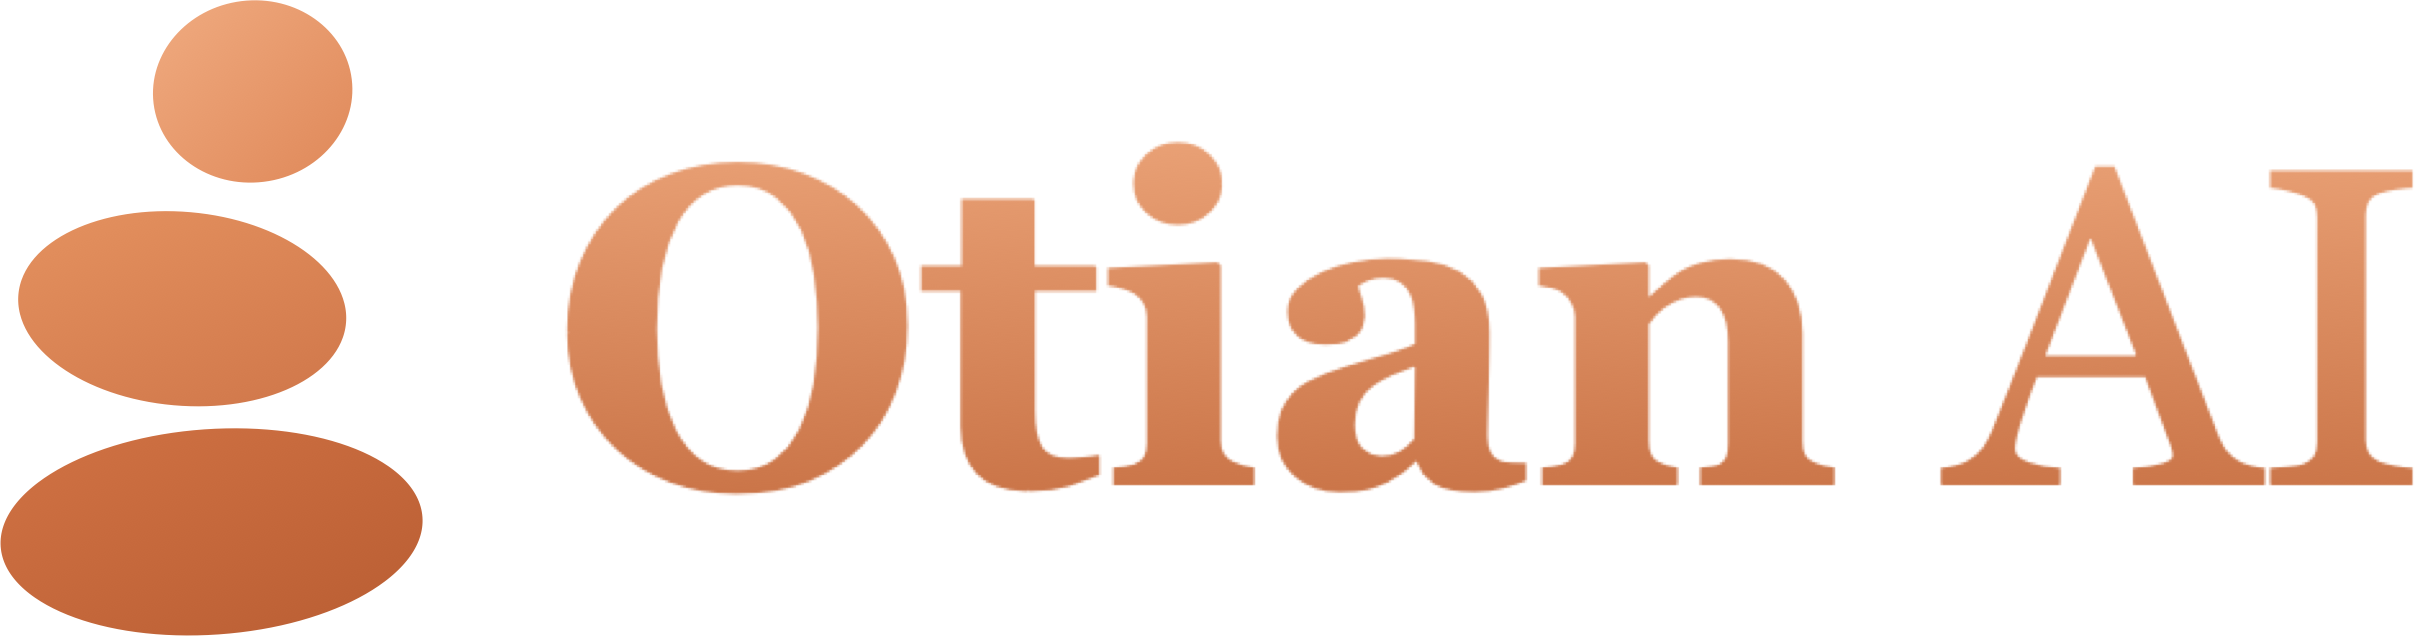
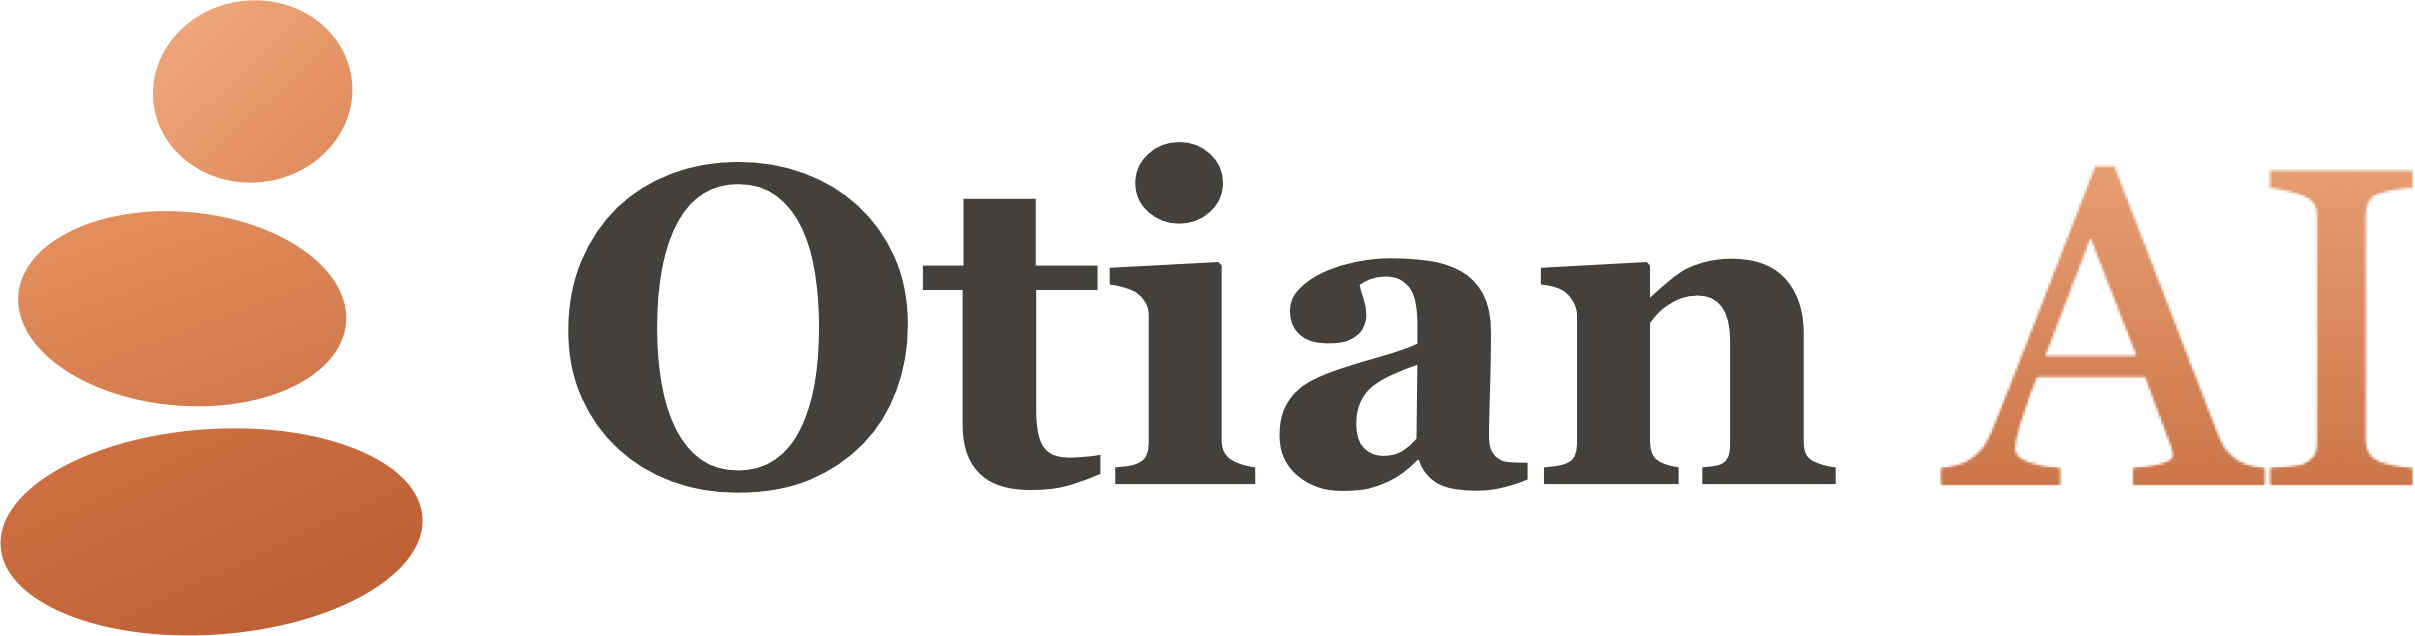
The name goes in ink and only the "AI" keeps the accent
"Otian" is #44403B, the site's own --text-primary, so the wordmark reads the way
body copy does and the terracotta is left to say one thing: the mark, and the two
letters that name what this is.

The "AI" is untouched, and deliberately so. The gradient stays on the <text>
element, where its object bounding box is the whole wordmark, and "Otian"
overrides it on its own tspan. The obvious way round, moving the gradient down
onto an "AI" tspan, reframes it around those two letters alone and slides the
ramp a few percent; a render diff against the previous file put that at a max
channel delta of 10 across the "AI". Done this way the same diff is 0 differing
pixels there, with the change confined to "Otian".

otian-text-cream.svg gets the dark-ground version of the same idea, cream name
against the accent. otian-text-ink.svg stays flat for single-ink use.

PNG re-exported: 2415x636, corners alpha 0.

Changed region(s): [[0.2174, 0.239, 0.7764, 0.7767], [0.4658, 0.2091, 0.528, 0.3585]]

diff --git a/scripts/gen-logo.py b/scripts/gen-logo.py
@@ -69,7 +69,7 @@ H = MARK_H       # viewBox is tight to the ink: no built-in margin, add your own
 FONT = 128.0     # gives a cap height of half the mark, the ratio archie-text.svg uses
 GAP = 40.0       # visual space between mark ink and wordmark ink, not between layout boxes
 
-def build(text_fill, defs_extra="", label="Otian AI"):
+def build(otian_fill, base_fill, defs_extra="", label="Otian AI"):
     mx0, my0, mx1, my1 = mark_bounds()
     s = MARK_H / (my1 - my0)
     mark_w = (mx1 - mx0) * s
@@ -107,24 +107,33 @@ def build(text_fill, defs_extra="", label="Otian AI"):
   <g transform="translate({tx:.3f} {ty:.3f}) scale({s:.5f})">
 {ell}
   </g>
-  <!-- "Otian" bold and " AI" regular: the weight pairing the nav lockup uses. The baseline is
-       set explicitly rather than with dominant-baseline, which renderers disagree about. -->
-  <text x="{text_x:.2f}" y="{baseline:.2f}" font-family="Georgia, 'Times New Roman', serif" font-size="{FONT:.0f}" fill="{text_fill}"><tspan font-weight="bold">Otian</tspan><tspan> AI</tspan></text>
+  <!-- "Otian" bold and " AI" regular: the weight pairing the nav lockup uses. The name reads in
+       the site's own ink and only the "AI" carries the accent, but note HOW: the gradient stays
+       on the <text>, where its object bounding box is the whole wordmark, and "Otian" overrides
+       it on its own tspan. Moving the gradient down onto a tspan instead would reframe it around
+       those two letters alone and shift the ramp across the "AI" by a few percent. The baseline
+       is set explicitly rather than with dominant-baseline, which renderers disagree about. -->
+  <text x="{text_x:.2f}" y="{baseline:.2f}" font-family="Georgia, 'Times New Roman', serif" font-size="{FONT:.0f}" fill="{base_fill}"><tspan font-weight="bold" fill="{otian_fill}">Otian</tspan><tspan> AI</tspan></text>
 </svg>
 '''
 
 if __name__ == "__main__":
     import sys
-    GRAD = '\n    <linearGradient id="otianWord" x1="0" y1="0" x2="0" y2="1"><stop offset="0" stop-color="#EFA97E"/><stop offset="1" stop-color="#C36A3D"/></linearGradient>'
+
+    GRAD = ('\n    <linearGradient id="otianWord" x1="0" y1="0" x2="0" y2="1">'
+            '<stop offset="0" stop-color="#EFA97E"/><stop offset="1" stop-color="#C36A3D"/>'
+            '</linearGradient>')
+    INK, CREAM, GRADREF = "#44403B", "#F3F0ED", "url(#otianWord)"
+
     variants = {
-        "otian-text.svg":       ("url(#otianWord)", GRAD),
-        "otian-text-ink.svg":   ("#44403B", ""),
-        "otian-text-cream.svg": ("#F3F0ED", ""),
+        # name                    "Otian"  <text> fill, which " AI" inherits    extra defs
+        "otian-text.svg":        (INK,     GRADREF, GRAD),   # on cream / white
+        "otian-text-cream.svg":  (CREAM,   GRADREF, GRAD),   # the same idea on a dark ground
+        "otian-text-ink.svg":    (INK,     INK,     ""),     # one colour, for single-ink use
     }
     out = sys.argv[1] if len(sys.argv) > 1 else "assets"
-    for name, (fill, extra) in variants.items():
-        open(f"{out}/{name}", "w", encoding="utf-8").write(build(fill, extra))
+    for name, (otian, base, extra) in variants.items():
+        open(f"{out}/{name}", "w", encoding="utf-8").write(build(otian, base, extra))
         print("wrote", name)
-    mx0, my0, mx1, my1 = mark_bounds()
     print(f"\nmetrics: bold 'Otian'={BOLD_W:.4f}em  ' AI'={REST_W:.4f}em"
           f"  ink above baseline={INK_ABOVE:.4f}em below={INK_BELOW:.4f}em")
